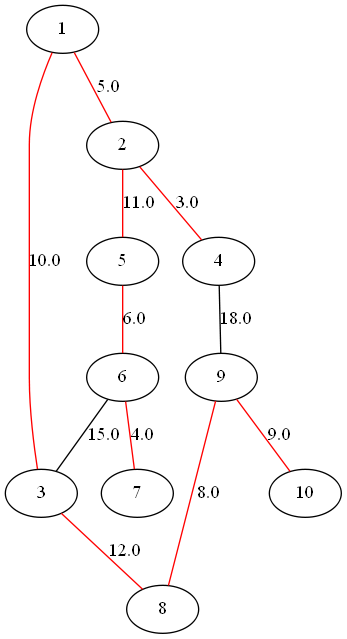
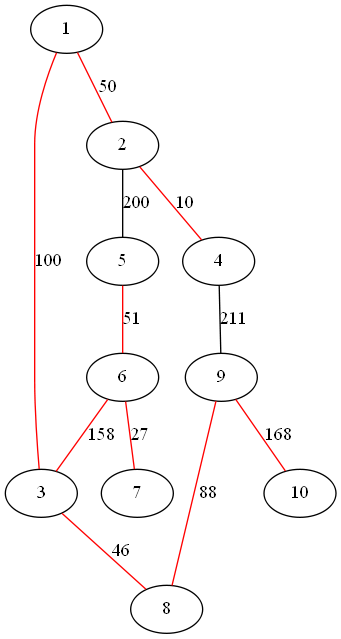
ver 3 final

diff --git a/CableCarSystem.py b/CableCarSystem.py
@@ -5,6 +5,7 @@ from Edge import Edge
 from collections import deque
 from EdgeWeightedGraph import EdgeWeightedGraph
 from IndexMinPQ import IndexMinPQ
+from DirectedEdge import DirectedEdge
 import pygraphviz as pgv
 
 class CableCarSystem:
@@ -14,6 +15,12 @@ class CableCarSystem:
     pq = None
     count = 0
     adjList = {} #dictonary
+
+    ''' question 5c '''
+    distTo = {}
+    edgeTo = {}
+    marked = {}
+    ''' question 5c '''
 
     def __init__(self):
         graph = EdgeWeightedGraph()
@@ -116,6 +123,44 @@ class CableCarSystem:
     def edges(self):
         return self.mst
 
+    def dijkstraAlgo(self, G, s, type):
+        for v in G.V():
+            self.marked[v] = False
+            self.edgeTo[v] = None
+            self.distTo[v] = float('Inf')
+
+        self.pq = IndexMinPQ(len(G.V()), type)
+        self.distTo[s] = 0.0
+        self.pq.insert(s, 0.0)
+        while not self.pq.isEmpty():
+            v = self.pq.delMin()
+            self.marked[v] = True
+            #print "Relaxing vertex " + str(v)
+            for e in G.adj(v):
+                self.relax(v, e.other(v), e)
+
+    def relax(self, v, w, e):
+        if self.distTo[w] > self.distTo[v] + e.weight:
+            self.distTo[w] = self.distTo[v] + e.weight
+            self.edgeTo[w] = e
+            if self.pq.contains(w):
+                self.pq.change(w, self.distTo[w])
+            elif self.marked[w] is False:
+                self.pq.insert(w, self.distTo[w])
+
+    def pathTo(self, v):
+        path = []
+        e = self.edgeTo[v]
+        dest = v
+        while e is not None:
+            src = e.other(dest)
+            de = DirectedEdge(src,dest,e.weight, e.travelTime, e.costs)
+            path.append(de)
+            e = self.edgeTo[src]
+            dest = src
+        return path
+
+
     def createPath(self, v, w, weight, travelTimes, costs):
         e1 = Edge(v,w,weight, travelTimes, costs)
         self.path.append(e1)
@@ -151,10 +196,23 @@ class CableCarSystem:
 
 ccs = CableCarSystem()
 ccs.readGraph("cablecar.txt")
-type = "distance"    #question 5a - distance, question 5b - costs, question 5c - travelTime
-ccs.primsAlgo(type)
-for e in ccs.edges():
-    eV = e.either() #get left node
-    eW = e.other(eV) #get right node
-    ccs.createPath(eV, eW, e.weight, e.travelTime, e.costs)
-ccs.drawGraph("cablecargenerate.png", type)
+type = "costs"    #question 5a - distance, question 5b - costs, question 5c - travelTime
+
+if type is "distance" or type is "costs":
+    ccs.primsAlgo(type)
+
+    for e in ccs.edges():
+        eV = e.either() #get left node
+        eW = e.other(eV) #get right node
+        ccs.createPath(eV, eW, e.weight, e.travelTime, e.costs)
+    ccs.drawGraph("cablecargenerate.png", type)
+elif type is "travelTime":
+    s = ccs.V()[9]  #9 becos node 10 is in element [9]
+    ccs.dijkstraAlgo(ccs, s, type)
+    for v in ccs.V():
+        print str(s) + " to " + str(v) + " (" + str(ccs.distTo[v]) + "):",
+        for e in reversed(ccs.pathTo(7)):
+            ccs.createPath(e.src(), e.dest(), e.weight, e.travelTime, e.costs)
+            print str(e.src())+ "->" + str(e.dest()) + " " + str(e.weight) + " ",
+        print
+    ccs.drawGraph("cablecargenerate.png", type)

diff --git a/BellmanFordAlgo.py b/BellmanFordAlgo.py
@@ -10,20 +10,25 @@ class BellmanFordAlgo:
     distTo = []
     edgeTo = []
     pq = None
+    path = []
 
     def __init__(self, G, s):
         self.edgeTo = [None for i in range(0, len(G.V()))]
         self.distTo = [float('Inf') for i in range(0, len(G.V()))]
         self.distTo[s] = 0.0
 
+        self.pq = IndexMinPQ(len(G.V()), type)
+        self.distTo[s] = 0.0
+        self.pq.insert(s, 0.0)
         for i in range(0, len(G.V())):
             for v in G.V():
                 for e in G.adj(v):
-                    self.relax(e)
+                    #self.relax(e)
+                    self.relax(v, e.other(v), e)
 
-    def relax(self, e):
-        v = e.either()
-        w = e.other(v)
+    def relax(self, v,w,e):
+        #v = e.either()
+        #w = e.other(v)
         if self.distTo[w] > self.distTo[v] + e.weight:
             self.distTo[w] = self.distTo[v] + e.weight
             self.edgeTo[w] = e
@@ -34,18 +39,42 @@ class BellmanFordAlgo:
         dest = v
         while e is not None:
             src = e.other(dest)
-            de = DirectedEdge(src,dest,e.weight)
+            de = DirectedEdge(src,dest,e.weight, 0, 0)
             path.append(de)
             e = self.edgeTo[src]
             dest = src
         return path
 
+    def createPath(self, v, w, weight, travelTime, costs):
+        e1 = Edge(v,w,weight, travelTime, costs)
+        self.path.append(e1)
+
+    def drawGraph(self, filename):
+        Gpgv = pgv.AGraph('graph myGraph {}')
+        for n in G.V():
+            for e in G.adj(n):
+                x = e.either()
+                y = e.other(x)
+                Gpgv.add_edge(x, y, e.weight, label=e.weight)
+
+        for e in self.path:
+            v1 = e.either()
+            v2 = e.other(v1)
+            edge = Gpgv.get_edge(v1, v2)
+            edge.attr['color']='red'
+
+        Gpgv.draw(filename,prog='dot')
+        os.startfile(filename)
+
 G = EdgeWeightedGraph()
 G.readGraph("tinyEWG.txt")
-s = G.V()[0]
+s = G.V()[5]    #from node 5
 sp = BellmanFordAlgo(G, s)
 for v in G.V():
     print str(s) + " to " + str(v) + " (" + str(sp.distTo[v]) + "):",
-    for e in reversed(sp.pathTo(v)):
+    for e in reversed(sp.pathTo(6)):    #to node 6
+        sp.createPath(e.src(), e.dest(), e.weight, 0, 0)
         print str(e.src())+ "->" + str(e.dest()) + " " + str(e.weight) + " ",
     print
+
+sp.drawGraph("BellmanFord.png")

diff --git a/IndexMinPQ.py b/IndexMinPQ.py
@@ -34,7 +34,7 @@ class IndexMinPQ:
         indexOfMin = self.pq[1]
         self.exch(1, self.N)
         self.N -= 1
-        self.sink(1, type)
+        self.sink(1)
         self.keys[self.pq[self.N+1]] = None
         self.qp[self.pq[self.N+1]] = -1
         return indexOfMin
@@ -44,8 +44,8 @@ class IndexMinPQ:
             return self.keys[self.pq[i]] > self.keys[self.pq[j]]
         elif self.type is "costs":
             return self.keys[self.pq[i]].costs > self.keys[self.pq[j]].costs
-        elif self.type is "travelTime":
-            return self.keys[self.pq[i]].travelTime > self.keys[self.pq[j]].travelTime
+        #elif self.type is "travelTime":
+        #    return self.keys[self.pq[i]].travelTime > self.keys[self.pq[j]].travelTime
 
     def exch(self, i, j):
         t = self.pq[i]
@@ -62,7 +62,7 @@ class IndexMinPQ:
             k = p
             p = int(ceil(k/2.0))
 
-    def sink(self, k, type):
+    def sink(self, k):
         while 2*k <= self.N:
             j = 2 * k
             if j < self.N and self.greater(j, j+1): j += 1

diff --git a/DijkstraSP.py b/DijkstraSP.py
@@ -45,7 +45,7 @@ class DijkstraSP:
         dest = v
         while e is not None:
             src = e.other(dest)
-            de = DirectedEdge(src,dest,e.weight)
+            de = DirectedEdge(src,dest,e.weight, 0, 0)
             path.append(de)
             e = self.edgeTo[src]
             dest = src
@@ -74,11 +74,11 @@ class DijkstraSP:
 
 G = EdgeWeightedGraph()
 G.readGraph("tinyEWG.txt")
-s = G.V()[0]
+s = G.V()[5]
 sp = DijkstraSP(G, s, "distance")
 for v in G.V():
     print str(s) + " to " + str(v) + " (" + str(sp.distTo[v]) + "):",
-    for e in reversed(sp.pathTo(v)):
+    for e in reversed(sp.pathTo(6)):
         sp.createPath(e.src(), e.dest(), e.weight, 0, 0)
         print str(e.src())+ "->" + str(e.dest()) + " " + str(e.weight) + " ",
     print

diff --git a/DirectedEdge.py b/DirectedEdge.py
@@ -5,10 +5,12 @@ class DirectedEdge:
     w = None # destination vertex
     weight = None # weight
 
-    def __init__(self, v, w, wt):
+    def __init__(self, v, w, wt, travelTime, costs):
         self.v = v
         self.w = w
         self.weight = wt
+        self.travelTime = travelTime
+        self.costs = costs
 
     def src(self):
         return self.v
